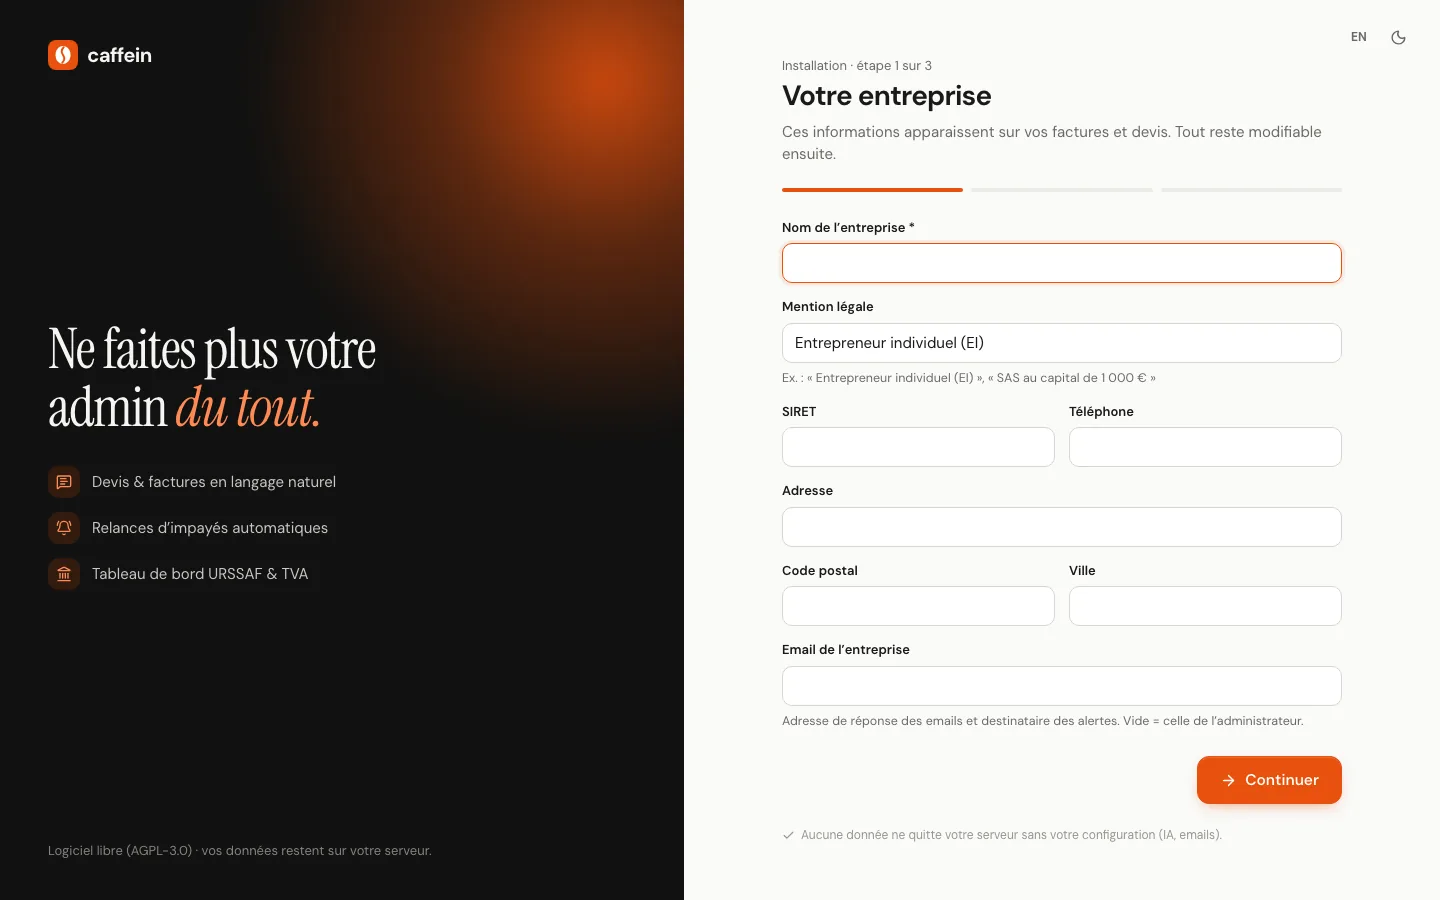
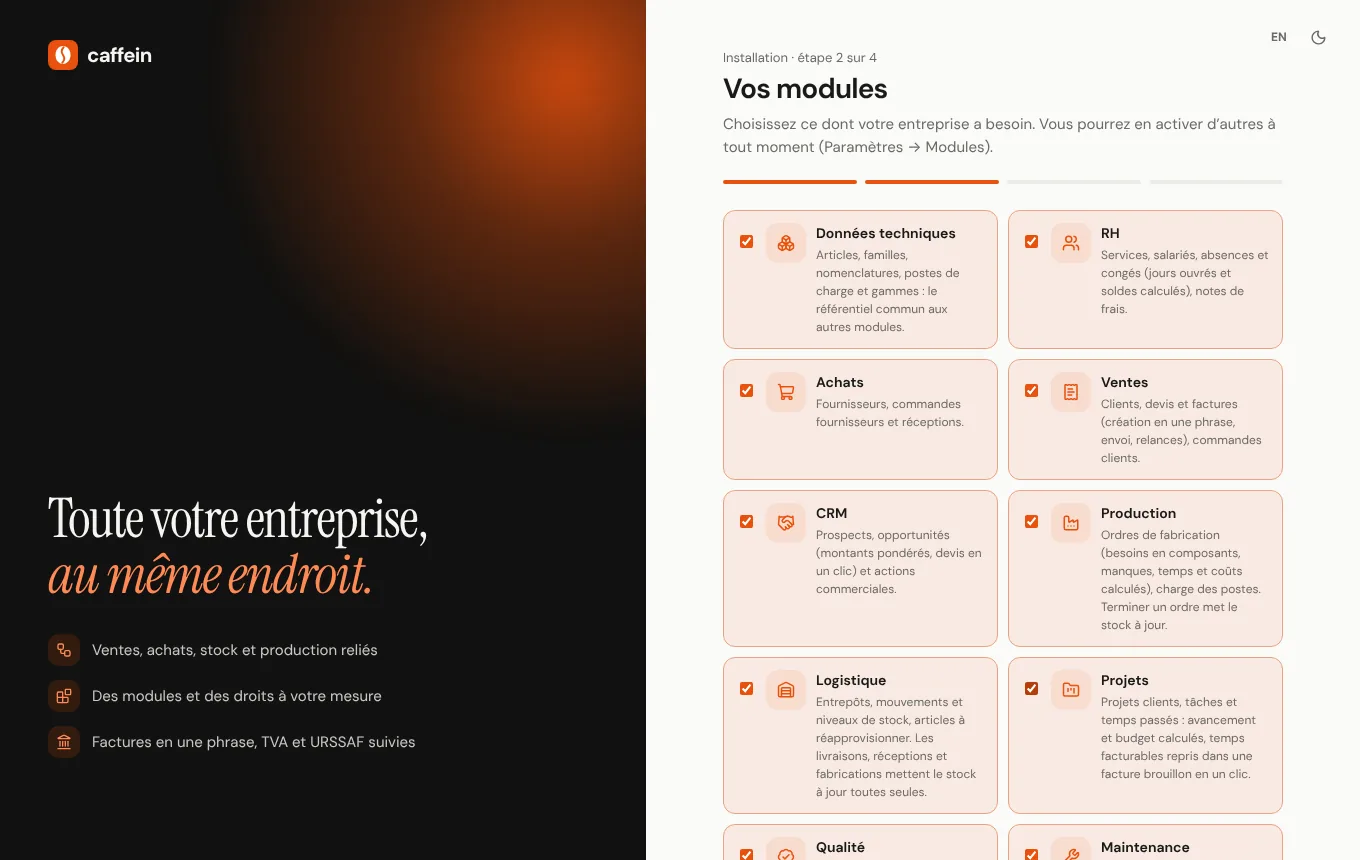
contenu(caffein): fiche de l'ERP modulaire, nouvelles captures
La fiche décrit le passage à l'ERP : modules, données en tables SQL,
calculs en Python, droits par module, contrat de tests, relecture de
sécurité ; huit captures refaites sur l'instance de démonstration. La
présentation mentionne l'ERP.

Claude-Session: https://claude.ai/code/session_0138KjbEJveEL35GFsrUnT3a

diff --git a/content/realisations/caffein.md b/content/realisations/caffein.md
@@ -3,7 +3,7 @@ titre: "CAFFEIN — ERP modulaire assisté par IA"
 slug: caffein
 type: perso  # entreprise, formation ou perso
 date: 2026-01/2026-10  # AAAA, AAAA-MM, AAAA-MM-JJ ou période début/fin (ex. 2026-01/2026-08)
-statut: "v2.0 publiée en open source, ERP modulaire en cours"  # ex. en cours, terminé, en pause
+statut: "ERP modulaire publié en open source"  # ex. en cours, terminé, en pause
 resume: "Logiciel de gestion libre pour TPE, devenu un ERP modulaire (ventes, achats, stock, production, RH, CRM, projets, qualité, maintenance, comptabilité) : données en tables SQL, calculs en Python, droits réglés module par module, et une IA qui rédige devis et factures à partir d'une phrase. Prototypé avec n8n, réécrit en Python (FastAPI, React), auto-hébergé sur un serveur Linux derrière Nginx."
 technos:
   - "Python"
@@ -126,13 +126,15 @@ Captures de l'ERP sur l'instance de démonstration (données fictives d'un studi
 
 ## Résultats et tests
 
-Le code de la version 2.0 a été publié en open source sur GitHub le 7 octobre 2026.
+La version 2.0 a été publiée en open source sur GitHub le 7 octobre 2026. L'ERP modulaire a rejoint la branche principale le 16 octobre 2026.
 
 Les tests se sont révélés complexes : tous les modules fonctionnent ensemble et l'assistant IA agit sur chacun d'eux, donc un problème à un endroit peut faire dysfonctionner l'ensemble. Je les ai donc automatisés :
 
-- **30 tests automatisés** (pytest) couvrent les calculs fiscaux, le chiffrement, l'analyse hors ligne, le cycle de vie d'une facture, les scripts, l'API, l'authentification, les rôles, la protection CSRF, l'assistant d'installation et la sauvegarde avec restauration. Ils passent tous.
-- **Intégration continue** (GitHub Actions) à chaque modification : tests sous Python 3.10 et 3.13, analyse du code (Ruff, ESLint, ShellCheck), build de l'interface, construction de l'image Docker puis démarrage du conteneur.
-- **Test de déploiement** : à chaque modification, la CI installe aussi Caffein sur une machine Ubuntu vierge, vérifie que le service systemd est actif, crée un administrateur, lance une sauvegarde, refait l'installation pour tester la mise à jour, puis désinstalle tout.
+- **351 tests automatisés** (pytest) couvrent les calculs (TVA, coûts de revient, jours ouvrés, stock), les étapes de chaque module (confirmer, livrer, réceptionner, valider…), les droits par rôle, le chiffrement, l'assistant d'installation, la mise à jour d'une base existante et la sauvegarde avec restauration. Ils passent tous, sous Python 3.10 et 3.13.
+- **Un « contrat » commun à tous les modules** : sans écrire de test, chaque module, présent ou futur, est vérifié automatiquement (tables conformes, écrans qui fonctionnent sur les données de démonstration, chiffres calculables sur une base vide, rôle « Lecture seule » qui ne modifie rien) et, surtout, on vérifie qu'on peut le désactiver sans casser les autres.
+- **Un parcours de l'interface dans un vrai navigateur** (Playwright) ouvre chaque page de chaque module, sur ordinateur et sur téléphone, et signale toute erreur ou tout débordement.
+- **Une relecture de sécurité** indépendante, où chaque problème devait être reproduit avant d'être corrigé : elle a trouvé et fait corriger un fichier piégé qui pouvait s'exécuter dans l'application, un compte de démonstration resté ouvert et un contrôle de droits manquant entre la RH et la comptabilité.
+- **Intégration continue** (GitHub Actions) à chaque modification : tests, analyse du code (Ruff, ESLint, ShellCheck), build de l'interface, construction de l'image Docker puis démarrage du conteneur, et installation complète sur une machine Ubuntu vierge.
 
 Le mode hors ligne permet de lancer tous ces tests sans appeler l'API Claude, donc sans coût.
 
@@ -142,8 +144,11 @@ Le mode hors ligne permet de lancer tous ces tests sans appeler l'API Claude, do
 
 **Tester un système où tout est lié.** Dans la version 1, la logique était répartie entre les workflows n8n et plusieurs services en ligne, ce qui rendait les enchaînements difficiles à tester. En la regroupant dans un seul code Python, j'ai pu la couvrir par des tests automatisés et une CI qui réinstalle tout le logiciel à chaque modification.
 
+**Ajouter une dizaine de modules sans rien casser.** Passer d'un logiciel de facturation à un ERP touchait tout : la base, les droits, la navigation. J'ai d'abord construit un socle commun (déclaration des modules, droits, moteur d'écrans), puis fait développer les modules en parallèle, chacun dans sa propre copie du dépôt Git, avant de les intégrer un par un. Le contrat de tests commun et la mise à jour testée d'une base de la version 2 ont permis de vérifier à chaque intégration que l'existant fonctionnait toujours.
+
 ## Pistes d'amélioration
 
+- Relier les comptes utilisateurs aux fiches salariés, pour que chacun saisisse lui-même ses absences et ses notes de frais
 - Dicter ses demandes à l'assistant au lieu de les écrire, avec un modèle de transcription auto-hébergé (Whisper)
 - Factures au format Factur-X et export comptable FEC pour l'expert-comptable
 - Copier automatiquement les sauvegardes hors du serveur, par exemple vers mon NAS
@@ -151,6 +156,8 @@ Le mode hors ligne permet de lancer tous ces tests sans appeler l'API Claude, do
 ## Compétences mises en œuvre
 
 - Développement d'une application web en Python (FastAPI) et React
+- Conception d'un ERP modulaire : modélisation des données en tables SQL, migrations versionnées par module
+- Gestion des habilitations : rôles, niveaux d'accès par module, exceptions par utilisateur
 - Administration d'un serveur Linux : service systemd durci, utilisateur dédié, journaux
 - Reverse proxy Nginx, HTTPS avec Let's Encrypt, nom de domaine et DNS
 - Conteneurisation avec Docker

diff --git a/content/pages/presentation.md b/content/pages/presentation.md
@@ -47,7 +47,7 @@ C'est aussi l'occasion d'en apprendre toujours plus sur le fonctionnement de l'i
 
 Mon homelab en est la mise en pratique : un hyperviseur Proxmox, avec des conteneurs Docker et des machines virtuelles, qui héberge un serveur multimédia Jellyfin pour mes vidéos personnelles et un NAS, accessibles à distance par VPN avec Tailscale.
 
-Je mène aussi d'autres projets personnels : CAFFEIN, un logiciel libre de gestion et de facturation pour les freelances, les micro-entrepreneurs et les TPE, dont l'assistant IA rédige devis et factures à partir d'une simple phrase ; RMutils, une boîte à outils de maintenance Windows qui tient sur une clé USB ; et Crypto Dashboard Pro, un tableau de bord interactif qui suit en temps réel le cours des cryptomonnaies, avec un système d'alertes personnalisé.
+Je mène aussi d'autres projets personnels : CAFFEIN, un ERP libre et modulaire pour les TPE (ventes, achats, stock, production, RH, CRM, comptabilité…), dont l'assistant IA rédige devis et factures à partir d'une simple phrase ; RMutils, une boîte à outils de maintenance Windows qui tient sur une clé USB ; et Crypto Dashboard Pro, un tableau de bord interactif qui suit en temps réel le cours des cryptomonnaies, avec un système d'alertes personnalisé.
 
 ## Ce portfolio
 
